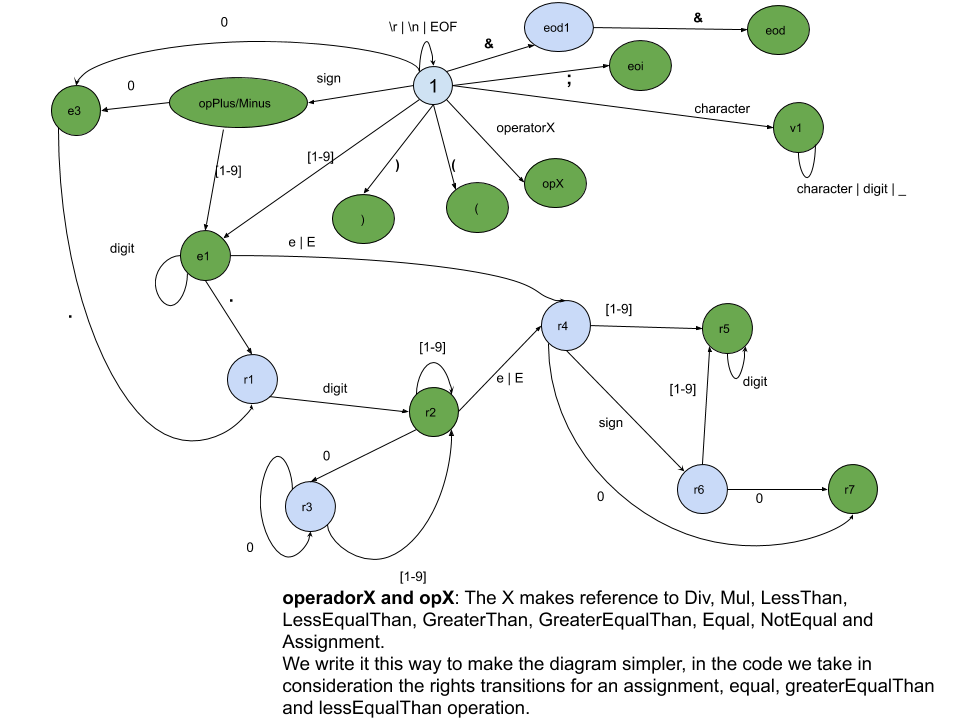
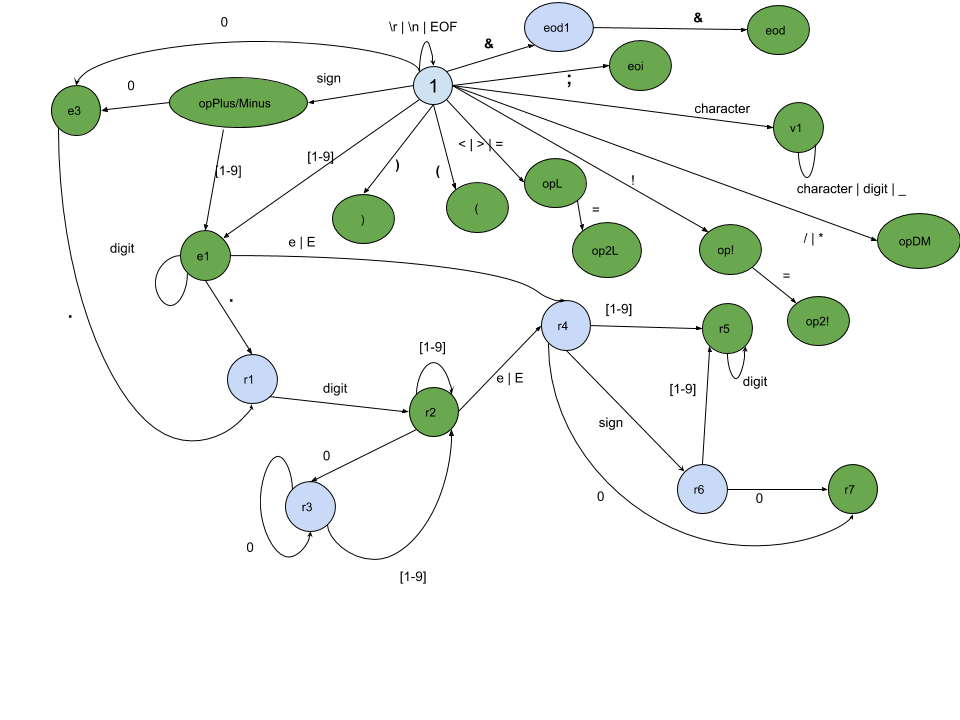
true and false now are parsed as a Lexical class auto - fixes for real numbers and integers

diff --git a/src/manual/TokenFactory.java b/src/manual/TokenFactory.java
@@ -1,12 +1,12 @@
-package manual;
+package auto;
 
 public class TokenFactory {
     private LexicalScanner lexicalScanner;
-    
+
     public TokenFactory(LexicalScanner lexicalScanner) {
         this.lexicalScanner = lexicalScanner;
     }
-    
+
     public LexicalUnit tokenSpecialCharacters() {
         switch (lexicalScanner.getLexeme()) {
             case ";":
@@ -77,6 +77,9 @@ public class TokenFactory {
                 return new MonoValuableLexicalUnit(lexicalScanner.getRow(), lexicalScanner.getColumn(), LexicalClass.LOGICAL_AND);
             case "not":
                 return new MonoValuableLexicalUnit(lexicalScanner.getRow(), lexicalScanner.getColumn(), LexicalClass.LOGICAL_NOT);
+            case "true":
+            case "false":
+                return new MultiValuableLexicalUnit(lexicalScanner.getRow(), lexicalScanner.getColumn(), LexicalClass.BOOLEAN, lexicalScanner.getLexeme());
             default:
                 return new MultiValuableLexicalUnit(lexicalScanner.getRow(), lexicalScanner.getColumn(), LexicalClass.VAR_NAME, lexicalScanner.getLexeme());
         }

diff --git a/src/auto/TokenFactory.java b/src/auto/TokenFactory.java
@@ -77,6 +77,9 @@ public class TokenFactory {
                 return new MonoValuableLexicalUnit(lexicalScanner.getRow(), lexicalScanner.getColumn(), LexicalClass.LOGICAL_AND);
             case "not":
                 return new MonoValuableLexicalUnit(lexicalScanner.getRow(), lexicalScanner.getColumn(), LexicalClass.LOGICAL_NOT);
+            case "true":
+            case "false":
+                return new MultiValuableLexicalUnit(lexicalScanner.getRow(), lexicalScanner.getColumn(), LexicalClass.BOOLEAN, lexicalScanner.getLexeme());
             default:
                 return new MultiValuableLexicalUnit(lexicalScanner.getRow(), lexicalScanner.getColumn(), LexicalClass.VAR_NAME, lexicalScanner.getLexeme());
         }

diff --git a/src/auto/Main.java b/src/auto/Main.java
@@ -5,7 +5,7 @@ import java.io.*;
 public class Main {
     public static void main(String[] args) throws FileNotFoundException, IOException {
         //Reader input = new InputStreamReader(new FileInputStream(args[0]));
-        Reader input = new InputStreamReader(new FileInputStream("ejemplo.alex"));
+        Reader input = new InputStreamReader(new FileInputStream("ejemplos/ej1.alex"));
         LexicalScanner al = new LexicalScanner(input);
         LexicalUnit unidad;
         do {

diff --git a/src/auto/LexicalClass.java b/src/auto/LexicalClass.java
@@ -21,10 +21,10 @@ public enum LexicalClass {
     REAL_TYPE,
     INT_TYPE,
     BOOL_TYPE,
+    BOOLEAN,
     EOI,
     EOD,
     OPEN_PARENTHESIS,
     CLOSE_PARENTHESIS,
-    IGNORABLE,
-    EOF //This is needed for the syntactical parser
+    EOF
 }

diff --git a/src/manual/LexicalClass.java b/src/manual/LexicalClass.java
@@ -26,5 +26,5 @@ public enum LexicalClass {
     OPEN_PARENTHESIS,
     CLOSE_PARENTHESIS,
     IGNORABLE,
-    EOF //This is needed for the syntactical parser
+    EOF
 }
